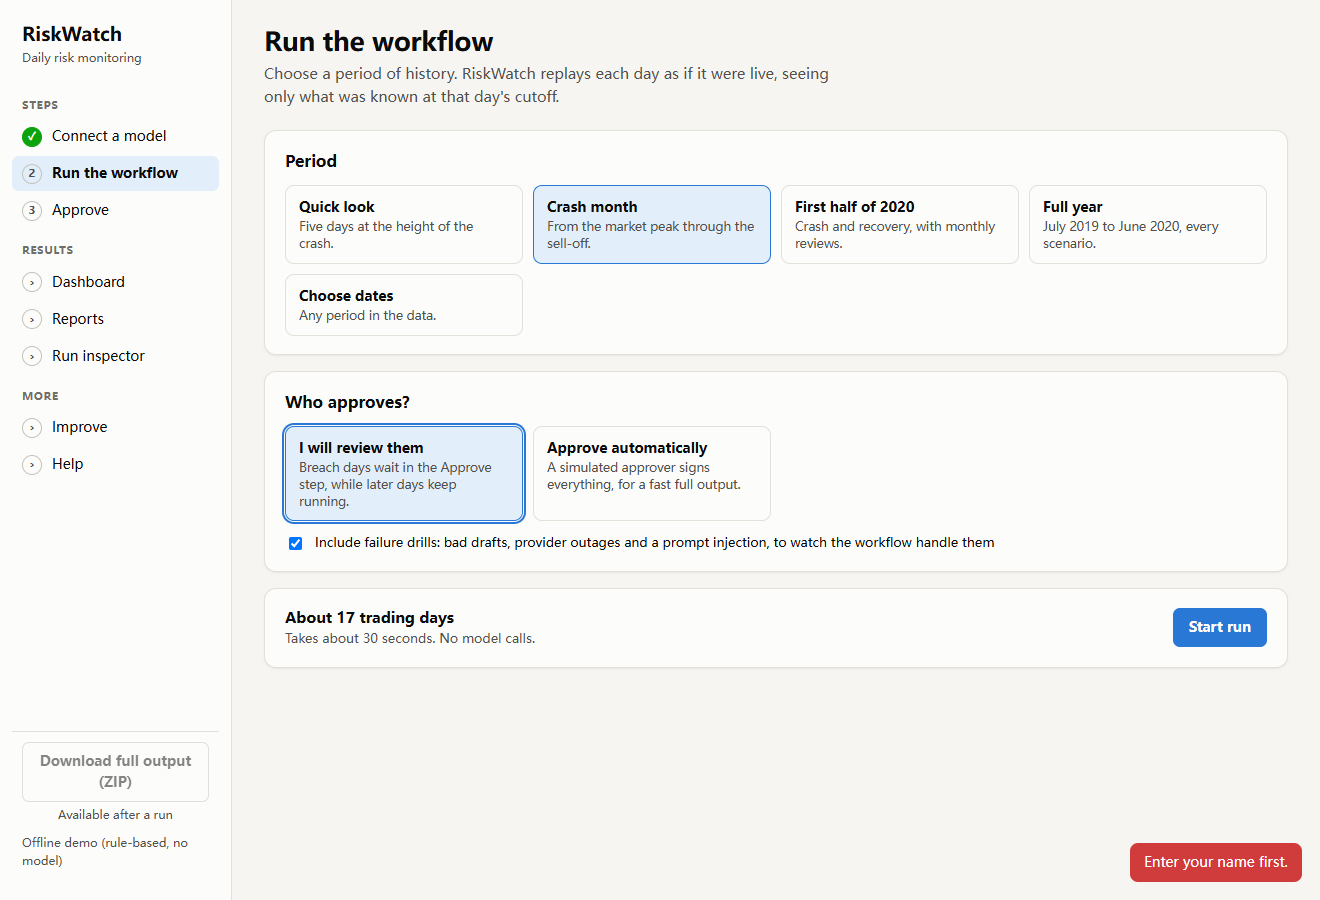
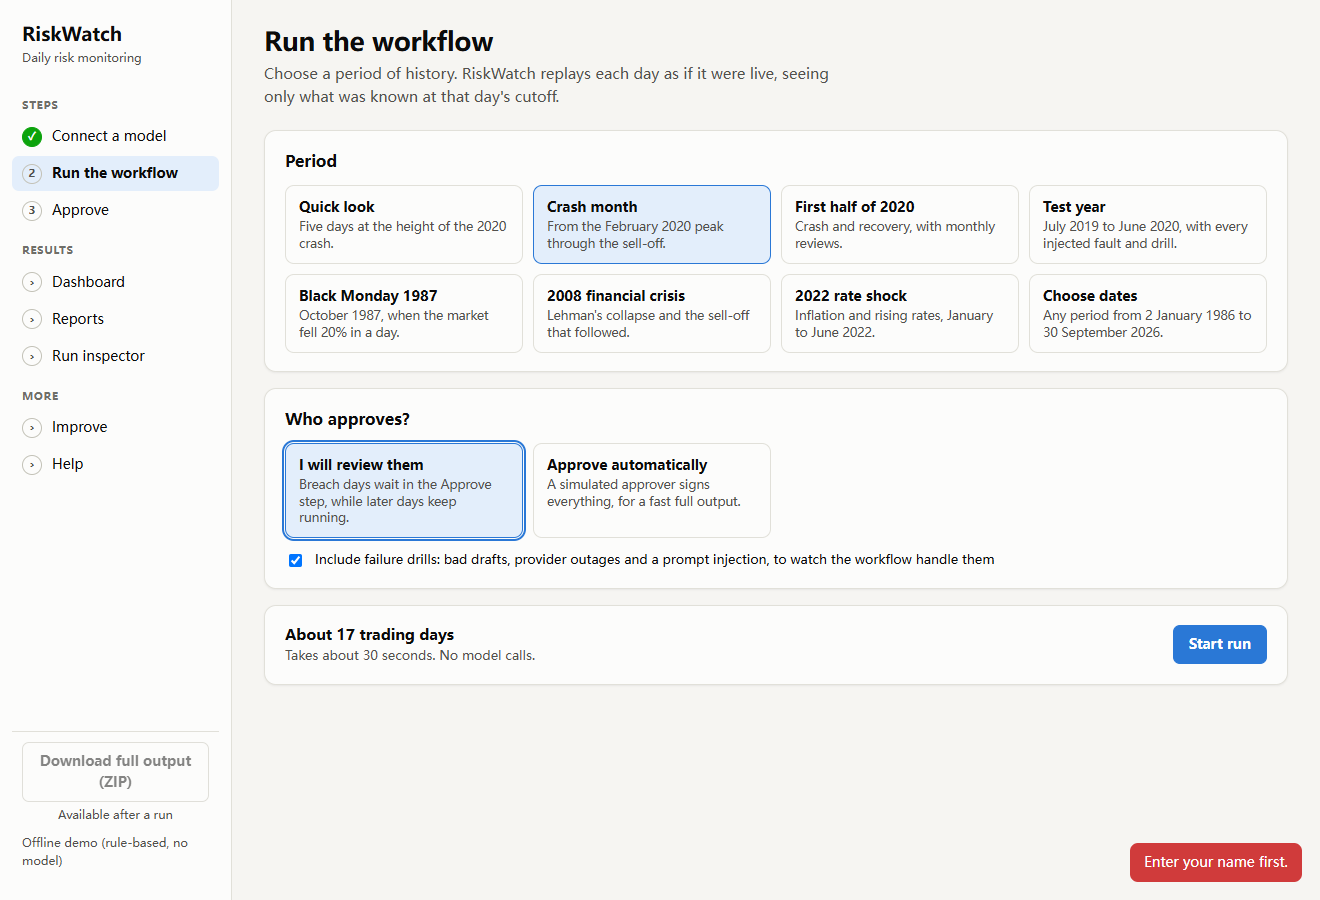
Let the app run any period from 1986 to 2026
Adds Black Monday 1987, 2008 and 2022 presets, shows the real range on Choose dates, offers the
drills only where they exist, and offers a fresh workspace when a period would leave a gap the
scheduler would otherwise fill in day by day.

diff --git a/src/riskwatch/web/static/app.js b/src/riskwatch/web/static/app.js
@@ -338,12 +338,25 @@ function pageConnect() {
 
 // ---- 2. Run ----
 const PERIODS = [
-  ["quick", "Quick look", "Five days at the height of the crash.", "2020-03-09", "2020-03-13"],
-  ["crash", "Crash month", "From the market peak through the sell-off.", "2020-02-18", "2020-03-13"],
+  ["quick", "Quick look", "Five days at the height of the 2020 crash.", "2020-03-09", "2020-03-13"],
+  ["crash", "Crash month", "From the February 2020 peak through the sell-off.", "2020-02-18", "2020-03-13"],
   ["half", "First half of 2020", "Crash and recovery, with monthly reviews.", "2020-01-02", "2020-06-30"],
-  ["full", "Full year", "July 2019 to June 2020, every scenario.", "2019-07-01", "2020-06-30"],
-  ["custom", "Choose dates", "Any period in the data.", "", ""],
+  ["full", "Test year", "July 2019 to June 2020, with every injected fault and drill.", "2019-07-01", "2020-06-30"],
+  ["y1987", "Black Monday 1987", "October 1987, when the market fell 20% in a day.", "1987-10-01", "1987-10-30"],
+  ["y2008", "2008 financial crisis", "Lehman's collapse and the sell-off that followed.", "2008-09-02", "2008-11-28"],
+  ["y2022", "2022 rate shock", "Inflation and rising rates, January to June 2022.", "2022-01-03", "2022-06-30"],
+  ["custom", "Choose dates", "", "", ""],
 ];
+
+function longDate(iso) {
+  return new Date(iso + "T00:00:00Z").toLocaleDateString("en-GB", { day: "numeric", month: "long", year: "numeric", timeZone: "UTC" });
+}
+
+// Drills and injected vendor faults live only in the fixed test window.
+function hasDrills(start, end) {
+  const w = catalog.drill_window;
+  return Boolean(start && end && start <= w.end && end >= w.start);
+}
 const CALLS_PER_DAY = 5;
 const SECONDS_PER_DAY_OFFLINE = 2;
 const SECONDS_PER_DAY_LIVE = 75;
@@ -371,9 +384,13 @@ function pageRun() {
     const seconds = days * (offline ? SECONDS_PER_DAY_OFFLINE : SECONDS_PER_DAY_LIVE);
     const calls = Math.round(days * CALLS_PER_DAY);
     const heavy = !offline && days > 30;
+    const drills = hasDrills(form.start, form.end);
+    const ws = summary.book_start ? { from: summary.book_start, to: summary.last_day, next: summary.continue_from } : null;
+    const fresh = ws && (form.start < ws.from || form.start > ws.next);
     setup.replaceChildren(
       h("div", { class: "card" }, h("h2", {}, "Period"),
-        h("div", { class: "choices" }, PERIODS.map(([id, name, text, s, e]) => choice("period", id, form.period, name, text, () => {
+        h("div", { class: "choices" }, PERIODS.map(([id, name, text, s, e]) => choice("period", id, form.period, name,
+          text || `Any period from ${longDate(catalog.first_day)} to ${longDate(catalog.last_day)}.`, () => {
           form.period = id;
           if (s) { form.start = s; form.end = e; }
           renderSetup();
@@ -385,23 +402,32 @@ function pageRun() {
         h("div", { class: "choices" },
           choice("approvals", "manual", form.approvals, "I will review them", "Breach days wait in the Approve step, while later days keep running.", () => { form.approvals = "manual"; renderSetup(); }),
           choice("approvals", "auto", form.approvals, "Approve automatically", "A simulated approver signs everything, for a fast full output.", () => { form.approvals = "auto"; renderSetup(); })),
-        offline ? h("label", { class: "row small", style: "margin-top:12px" },
-          h("input", { type: "checkbox", checked: form.drills, onchange: (e) => { form.drills = e.target.checked; } }),
-          "Include failure drills: bad drafts, provider outages and a prompt injection, to watch the workflow handle them") : null),
+        offline && drills ? h("label", { class: "row small", style: "margin-top:12px" },
+          h("input", { type: "checkbox", id: "drills", checked: form.drills, onchange: (e) => { form.drills = e.target.checked; } }),
+          "Include failure drills: bad drafts, provider outages and a prompt injection, to watch the workflow handle them") : null,
+        drills ? null : h("p", { class: "muted small", id: "no-drills", style: "margin-top:12px" },
+          `The failure drills and injected vendor faults sit between ${longDate(catalog.drill_window.start)} and `,
+          `${longDate(catalog.drill_window.end)}. This period has none, so it runs on clean market data.`)),
       h("div", { class: "card" },
         h("div", { class: "row" },
           h("div", { class: "grow" }, h("strong", {}, `About ${days} trading days`),
             h("div", { class: "muted small" }, offline ? `Takes about ${duration(seconds)}. No model calls.`
               : `About ${calls} model calls on ${summary.backend}. Allow roughly ${duration(seconds)}.`)),
-          h("button", { class: "primary", id: "start", disabled: !days, onclick: guard(() => start(false)) }, "Start run")),
+          h("button", { class: "primary", id: "start", disabled: !days, onclick: guard(() => (fresh ? startOverAndRun() : start(false))) },
+            fresh ? "Start over and run" : "Start run")),
         heavy ? h("div", { class: "notice warn", style: "margin:12px 0 0" }, "That is a long run on a real model and will use a lot of your plan or budget. Consider a shorter period first.") : null,
-        summary.book_start ? h("p", { class: "muted small", style: "margin-top:12px" },
-          `This workspace already has results from ${summary.book_start}. A new run continues it. `,
+        fresh ? h("div", { class: "notice warn", id: "fresh-notice", style: "margin:12px 0 0" },
+          `This workspace holds results from ${longDate(ws.from)}${ws.to ? ` to ${longDate(ws.to)}` : ""}, and a new run `,
+          `can only continue it from ${longDate(ws.next)}. Running this period starts a fresh workspace: the current `,
+          "results move to an archive folder first.") : null,
+        ws && !fresh ? h("p", { class: "muted small", style: "margin-top:12px" },
+          `This workspace already has results from ${longDate(ws.from)}. A new run continues it. `,
           h("button", { onclick: guard(startOver) }, "Start over")) : null));
   };
 
   const start = async (resume) => {
-    await api("/api/start", { ...(resume && summary.job ? { start: summary.job.start, end: summary.job.end, approvals: summary.job.manual ? "manual" : "auto", drills: summary.job.drills } : form), resume });
+    await api("/api/start", { ...(resume && summary.job ? { start: summary.job.start, end: summary.job.end, approvals: summary.job.manual ? "manual" : "auto", drills: summary.job.drills }
+      : { ...form, drills: form.drills && hasDrills(form.start, form.end) }), resume });
     await poll();
     renderLive();
   };
@@ -411,6 +437,13 @@ function pageRun() {
     await api("/api/start-over", {});
     await poll();
     route();
+  };
+
+  const startOverAndRun = async () => {
+    if (!confirm("Start a fresh workspace for this period? Current results move to an archive folder.")) return;
+    await api("/api/start-over", {});
+    await poll();
+    await start(false);
   };
 
   const activity = h("div", { class: "muted small" });

diff --git a/src/riskwatch/web/server.py b/src/riskwatch/web/server.py
@@ -36,6 +36,7 @@ from ..llm.providers import (PRESETS, PermanentError, TransientError, build_prov
                              load_dotenv)
 from ..pit import PointInTimeStore
 from ..replay import load_scenario
+from ..stages.pipeline import history_days
 from .summary import period_summary
 
 STATIC = Path(__file__).parent / "static"
@@ -275,10 +276,19 @@ def api_summary(app: App, q: dict) -> dict:
     open_esc = app.rows("SELECT COUNT(*) n FROM escalations WHERE status = 'open'")
     last = app.rows("SELECT as_of FROM runs WHERE workflow = 'eod' ORDER BY as_of DESC LIMIT 1")
     version = versions.active(app.paths)
-    return {"settings": app.public_settings(), "backend": app.backend_label(), "job": app.job_view(), "counts": counts,
+    book_start = kv(app, "book_start")
+    return {"continue_from": continue_from(app, last[0]["as_of"] if last else None, book_start), "settings": app.public_settings(), "backend": app.backend_label(), "job": app.job_view(), "counts": counts,
             "pending": pending[0]["n"] if pending else 0, "escalations": open_esc[0]["n"] if open_esc else 0,
             "last_day": last[0]["as_of"] if last else None, "queued_decisions": app.queued,
-            "decision_error": app.decision_error, "version": version, "book_start": kv(app, "book_start")}
+            "decision_error": app.decision_error, "version": version, "book_start": book_start}
+
+
+def continue_from(app: App, last_day: str | None, book_start: str) -> str | None:
+    """The latest start a new run may have in this workspace. Anything later would leave a gap of days
+    that the scheduler would quietly fill in, because a missed day is a day to catch up."""
+    if not book_start:
+        return None
+    return (app.store.next_day(last_day) or last_day) if last_day else book_start
 
 
 def kv(app: App, key: str) -> str:
@@ -288,10 +298,13 @@ def kv(app: App, key: str) -> str:
 
 def api_catalog(app: App, q: dict) -> dict:
     calendar = app.store.calendar
+    bundle = versions.load_snapshot(app.paths, versions.active(app.paths))
+    # The first day with enough history for the active risk model, and never before the feed's own floor.
+    first = max(app.store.meta.get("first_run_day", calendar[0]), calendar[history_days(bundle["risk_model"]) - 1])
     return {"providers": {k: {"base_url": v["base_url"], "protocol": v["protocol"], "needs_key": bool(v["key_env"])}
                           for k, v in PRESETS.items()},
-            "first_day": "2019-07-01", "last_day": calendar[-1], "calendar_size": len(calendar),
-            "budgets": versions.load_snapshot(app.paths, versions.active(app.paths))["policy"]["budgets"]}
+            "first_day": first, "last_day": calendar[-1], "calendar_size": len(calendar),
+            "drill_window": load_scenario(ROOT)["window"], "budgets": bundle["policy"]["budgets"]}
 
 
 def api_claude(app: App, q: dict) -> dict:
@@ -344,12 +357,16 @@ def api_start_run(app: App, body: dict) -> dict:
     days = app.store.trading_days(start, end)
     if not days:
         raise ApiError("There are no trading days in that period.")
-    first = api_catalog(app, {})["first_day"]
-    if start < first:
-        raise ApiError(f"The book starts on {first}.")
+    catalog = api_catalog(app, {})
+    if start < catalog["first_day"] or end > catalog["last_day"]:
+        raise ApiError(f"Choose dates between {catalog['first_day']} and {catalog['last_day']}.")
     book_start = kv(app, "book_start")
     if book_start and start < book_start:
         raise ApiError(f"This workspace starts on {book_start}. Use Start over to run an earlier period.")
+    last = app.rows("SELECT MAX(as_of) d FROM runs WHERE workflow = 'eod'")
+    latest = continue_from(app, last[0]["d"] if last else None, book_start)
+    if latest and start > latest:
+        raise ApiError(f"This workspace continues from {latest}. Start there, or use Start over for a separate period.")
     if not app.settings["provider"]:
         raise ApiError("Connect a model first.")
     manual = body.get("approvals") == "manual"

diff --git a/tests/test_web.py b/tests/test_web.py
@@ -132,7 +132,33 @@ def test_run_needs_a_connected_model_and_a_valid_period(web):
     assert web.post("/api/start", {"start": "2020-03-16", "end": "2020-03-17"})[0] == 400
     connect_offline(web)
     assert web.post("/api/start", {"start": "2030-01-01", "end": "2030-01-02"})[0] == 400
-    assert web.post("/api/start", {"start": "2019-01-02", "end": "2019-01-03"})[0] == 400
+    assert web.post("/api/start", {"start": "1985-12-02", "end": "1985-12-06"})[0] == 400
+    assert web.post("/api/start", {"start": "2026-09-28", "end": "2026-10-30"})[0] == 400
+
+
+def test_catalog_offers_1986_to_2026_and_says_where_the_drills_are(web):
+    catalog = web.get("/api/catalog")
+    assert (catalog["first_day"], catalog["last_day"]) == ("1986-01-02", "2026-09-30")
+    assert catalog["drill_window"] == {"start": "2019-07-01", "end": "2020-06-30"}
+
+
+def test_a_historical_period_runs_in_the_app(web):
+    connect_offline(web)
+    assert run_to_end(web, "1987-10-16", "1987-10-20", approvals="auto")["state"] == "finished"
+    assert set(web.get("/api/summary")["counts"]) == {"completed"}
+
+
+def test_a_period_that_would_leave_a_gap_needs_a_fresh_workspace(web):
+    """Otherwise the scheduler would quietly catch up every day in between."""
+    connect_offline(web)
+    run_to_end(web, approvals="auto")
+    summary = web.get("/api/summary")
+    assert summary["continue_from"] == "2020-03-18"
+    code, body = web.post("/api/start", {"start": "2022-01-03", "end": "2022-01-05", "approvals": "auto"})
+    assert code == 400 and "2020-03-18" in body["error"]
+    assert web.post("/api/start-over")[0] == 200
+    assert run_to_end(web, "2022-01-03", "2022-01-05", approvals="auto")["state"] == "finished"
+    assert sorted(r["as_of"] for r in web.get("/api/runs")["runs"] if r["workflow"] == "eod") == ["2022-01-03", "2022-01-04", "2022-01-05"]
 
 
 def test_full_path_from_connect_to_download(web):

diff --git a/scripts/browser_check.py b/scripts/browser_check.py
@@ -68,7 +68,14 @@ def main() -> int:
 
             # 2. Run
             expect(page.get_by_role("heading", name="Run the workflow")).to_be_visible()
+            expect(page.get_by_text("Any period from 2 January 1986 to 30 September 2026.")).to_be_visible()
+            page.get_by_text("Black Monday 1987", exact=True).click()
+            expect(page.locator("#no-drills")).to_be_visible()
+            expect(page.locator("#drills")).to_have_count(0)
+            page.get_by_text("Choose dates", exact=True).click()
+            expect(page.locator("input[type=date]").first).to_have_attribute("min", "1986-01-02")
             page.get_by_text("Crash month", exact=True).click()
+            expect(page.locator("#drills")).to_be_visible()
             page.get_by_text("I will review them", exact=True).click()
             shot("2-run-setup")
             page.locator("#start").click()
@@ -93,6 +100,14 @@ def main() -> int:
             page.once("dialog", lambda d: d.accept())
             page.get_by_role("button", name="Approve all").click()
             expect(page.get_by_text("Nothing is waiting for you.")).to_be_visible(timeout=60000)
+
+            # A period that would leave a gap offers a fresh workspace instead of quietly filling the gap.
+            page.locator("nav a[href=\"#/run\"]").click()
+            page.get_by_text("2022 rate shock", exact=True).click()
+            expect(page.locator("#fresh-notice")).to_be_visible()
+            expect(page.locator("#start")).to_have_text("Start over and run")
+            page.get_by_text("Crash month", exact=True).click()
+            expect(page.locator("#fresh-notice")).to_have_count(0)
 
             # Results
             page.locator("nav a[href=\"#/dashboard\"]").click()
